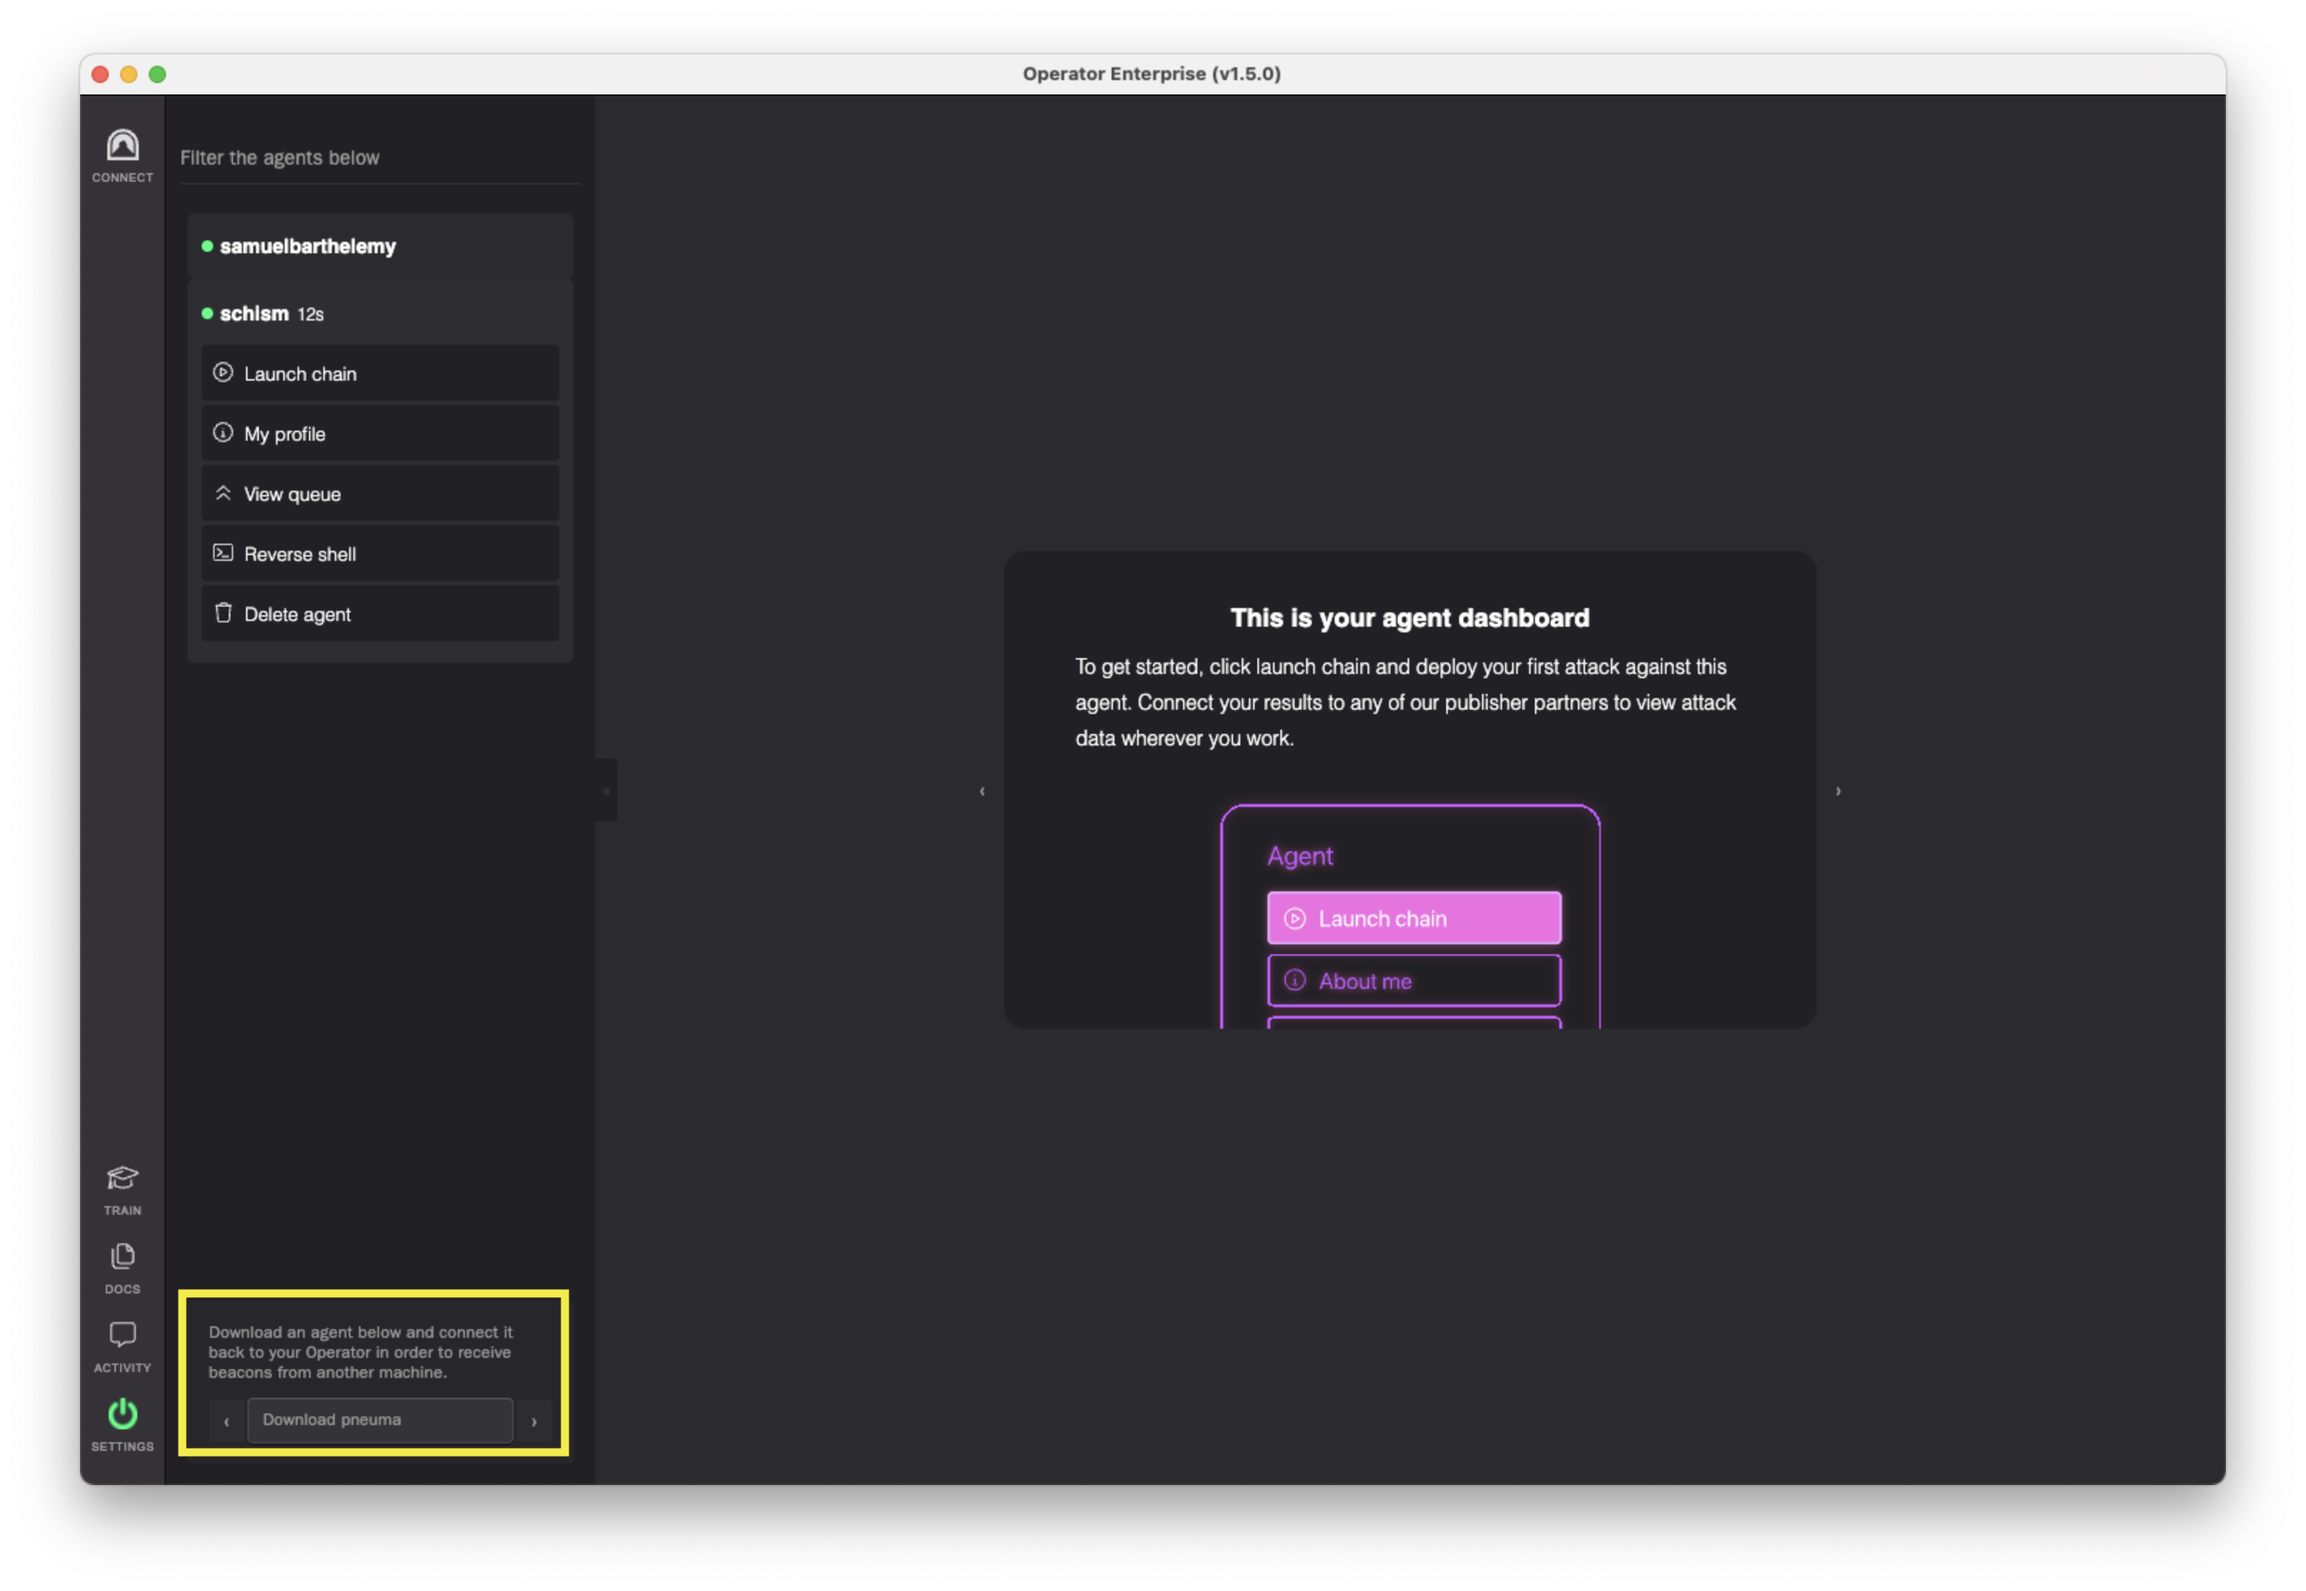
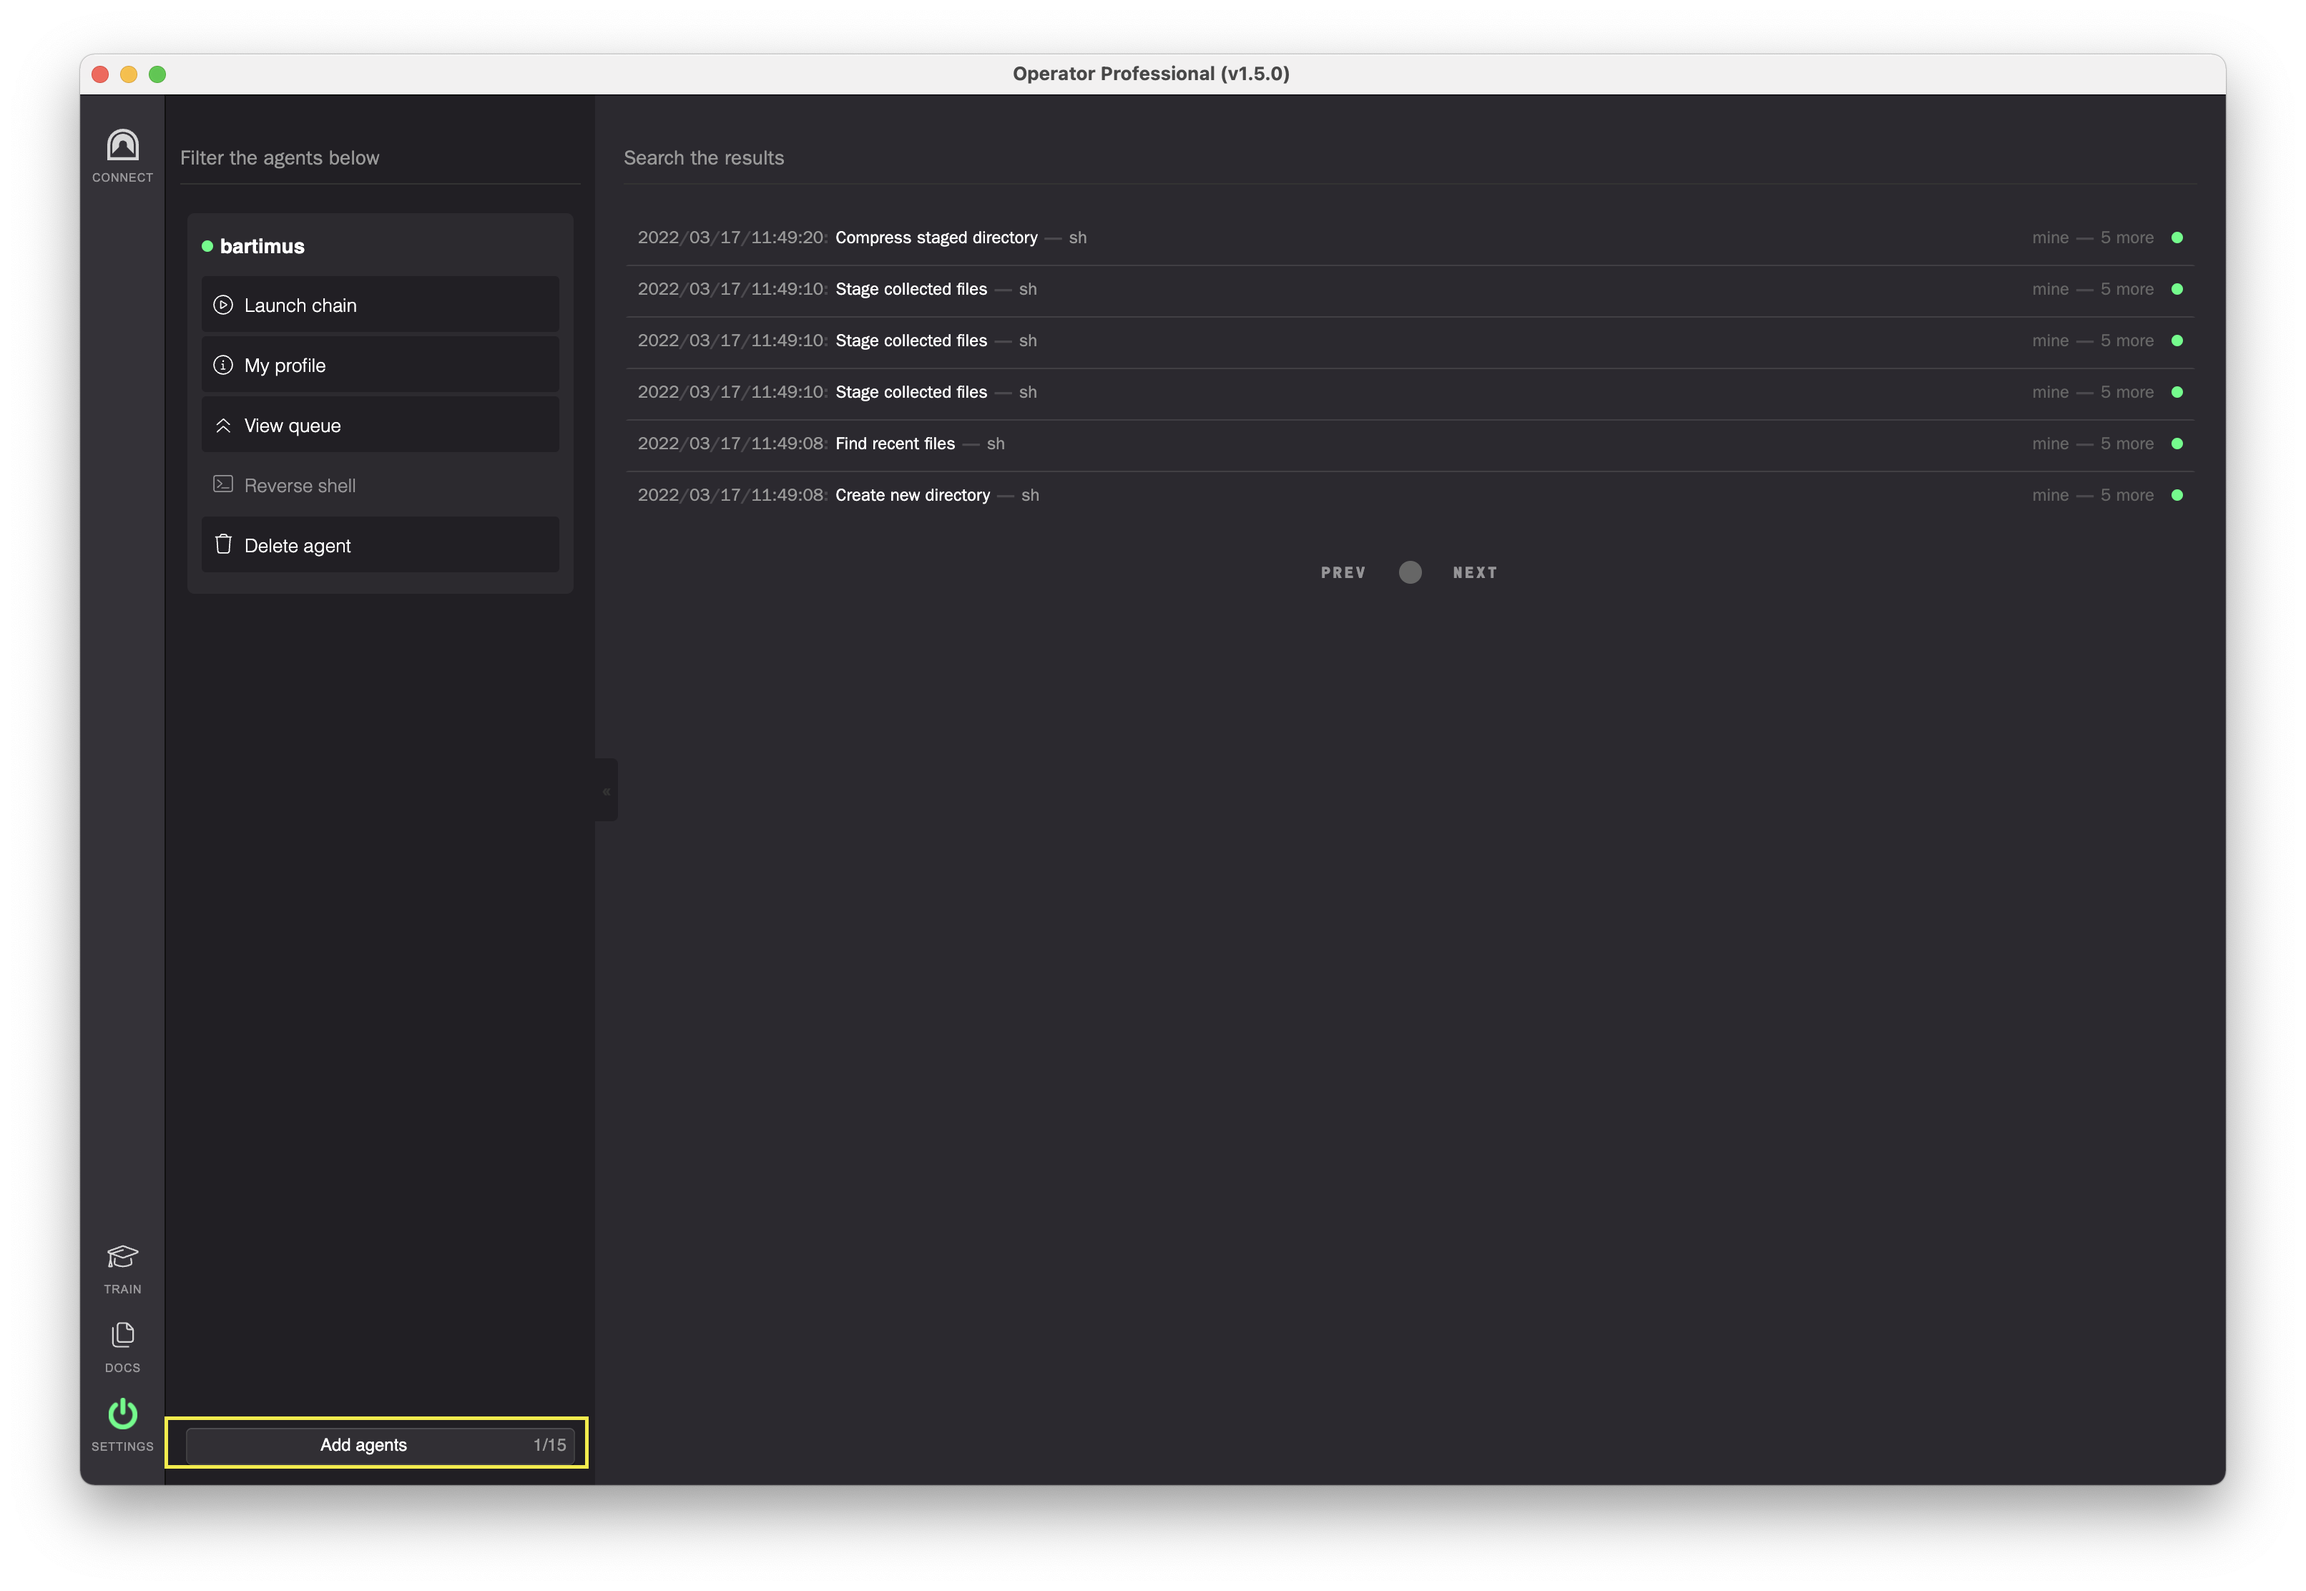
updated for issues listed

diff --git a/README.md b/README.md
@@ -5,7 +5,7 @@
 
 ### This repository is the spot to report bugs or submit feature requests.
 
-Operator is an autonomous red team C2 platform, built by [Prelude](https://prelude.org). It is designed for red, purple and blue teamers to conduct realistic threat assessments. Using the desktop application, you can deploy agents on remote computers and launch custom adversary profiles against them to identify the holes that antivirus programs & vulnerability scanners are not designed toweb locate.
+Operator is production-ready infrastructure for continuously testing your security environment. Operator is free & open-source, and provides everything you need to perform realistic offensive security assessments against your cyber defenses.
 
 > Watch our quick [introduction video](https://www.youtube.com/watch?v=Hz8K-jdqpBY)
 
@@ -22,20 +22,22 @@ When you start Operator, your app loads in our [community](https://github.com/pr
 The Prelude development & security teams run several supporting resources for the community:
 
 - A [Discord server](https://discord.gg/NWURE99JzE) to interact with the team.
-- A [YouTube video library](https://www.youtube.com/preludeorg) containing tutorials and use-cases.
+- A [YouTube video library](https://www.youtube.com/preludeorg) containing tutorials and use cases.
 - A [blog](https://feed.prelude.org), where we post on general security and specific Operator topics.
 - Details about our [weekly and out-of-band TTP releases](https://chains.prelude.org).
 
 ## Operator Terminology
 
-- Tactics, Techniques and Procedures (TTPs) - are the individual attacks you can send to your agents in order to test the endpoint's security. 
-- Chains - are sets of TTPs which are often based on a real adversary kill chain. 
-- TTP Tuesday - is a weekly chain release, designed by Prelude's security team and often based on notable attacks or novel techniques. (**Available to Professional License Holders**)
+- Tactic, Technique and Procedure (TTP) - A TTP is a specific ATT&CK technique implementation (procedure). Each TTP defines an independent ability a chain could contain, along with classification details describing what operating systems it will work on. Prelude natively supports Windows, Linux and MacOS (darwin) platforms and a series of shell and non-shell executors (i.e., the things that run the commands).
+- Chains - A chain is an unordered collection of procedures files. Think of a chain in video game terms; it is an empty profile or shell, and it gets more powerful as you add specific abilities to it. 
+- TTP Tuesday - Every Tuesday, Prelude security engineers release a new chain in an event called TTP Tuesday. These chains typically align to threat intelligence and are loaded into Operator automatically for Professional license holders. You can view past chains on our chains [website](https://chains.prelude.org). (**Available to Professional License Holders**)
 - N-Day Chains - is an out-of-band priority chain based on real world 0-Day releases. (**Available to Professional License Holders**)
-- Agents - are binaries (or scripts) which execute the deployed TTPs or Chains found in Operator. The Prelude security team develops multiple agents which are designed to fully support Operator's full feature set. These agents are modeled after the tools used by real adversaries. The community has also created a few open-source agents that work with Operator's underlying API.
-- Task (Link) - is a beacon which the agent receives from Operator as well as the result it sends to Operator. A link contains properties like the initial request, the agent's response, the process PID, and the status (code).
-- ThirdEye is a NodeJS agent that is built into Operator itself. ThirdEye lives in your home range and is often used to test deployment of a chain or TTP. Every time you open Operator, you will have access to your ThirdEye agent (ThirdEye is named after your computer's hostname).
-- Pneuma - Prelude's default open source agent. [Source code is available here.](https://github.com/preludeorg/pneuma)
+- Agent - An agent, often referred to as a Remote Access Trojan, is a process running on a remote computer which can run commands while under the control of a bad actor. Agents beacon into Operator periodically to ask for instructions to run. Each agent is automatically grouped into a range. Agents communicate to Operator through one of several network protocols, such as TCP, UDP, or HTTP.
+- Redirector - A redirector is a Linux server running a headless version of Operator. Your local Operator instance will connect to the redirector which acts as a Proxy for interating with agents. This allows you to manage agents hosted outside your network, without having to expose your local Operator instance.
+- Fact - A fact is a key/value pair. There are three different types of facts: Automatic, Discovered, and Custom. Automatic facts are immutable, discovered facts are generated from the output of a TTP, custom facts are defined by the user. Some TTPs may require certain custom facts to be present before attempting to execute.
+- Task (Link) - A Task is a beacon which the agent receives from Operator as well as the result it sends to Operator. A link contains properties like the initial request, the agent's response, the process PID, and the status (code).
+- ThirdEye - ThirdEye is a Node.js agent that is built directly into Operator. When Operator starts, ThirdEye automatically launches and beacons into your Home range with the username of the user running the desktop application. It only communicates locally to Operator and is designed for testing TTPs out before deploying them in the wild. ThirdEye does not support reverse shells, nor can you delete this agent.
+- Pneuma - Our most popular open-source agent is called Pneuma, a Go agent which supports all major operating systems and 3 different protocols (TCP, UDP, HTTP). Pneuma is capable of executing nearly all TTPs and chains loaded into Operator, along with built-in support for reverse shells (when connected over TCP). [Source code is available here.](https://github.com/preludeorg/pneuma)
 
 ## Quick Start
 
@@ -47,25 +49,25 @@ Whether you are using Operator for the first time or you are checking out the ne
 
 1. Head to https://www.prelude.org/download/current and download a copy of Operator for your operating system.
 2. Double-click the downloaded executable to install Operator the same as any other desktop app.
-3. Open Operator. You'll be created with the main dashboard where you'll deploy chains or individual TTPs and watch the results stream in. 
+3. Open Operator. Operator will open to the starting page, where you can get started deploying a chain.
 
 ## Deploying a chain
 
-> When running an operation, keep an eye on the "View Queue" button. Clicking this will show you the procedures from your chain that are awaiting execution by the agent. If any TTPs are skipped or queued, they might be waitin for other TTPs to complete or for a specific Fact to be present.
+> When running an operation, keep an eye on the "View Queue" button. Clicking this will show you the procedures from your chain that are awaiting execution by the agent. If any TTPs are skipped or queued, they might be waiting for other TTPs to complete or for a specific fact to be present.
 
 1. Select the default ThirdEye agent. 
 2. Click "Launch Chain".
-3. Type the name of a Chain in the "Find an attack chain to deploy" (File Hunter is recommended) 
+3. Type the name of a Chain in the "Find an attack chain to deploy" (File Hunter is a great chain to get started with, as it supports multiple operating systems.) 
 4. Click "Deploy". This will send the chain to the selected agent.
 5. Within a few seconds you should see results starting to stream into your agent's result log. Click on any row to view additional information on the result.
     
 ![alt text](images/deploy.png)
 
-## Using an Agent other than ThirdEye
+## Selecting an Agent for your Operation.
 
 > Using an agent other than ThirdEye (which is baked into Operator) can allow access to additional features (Other protocol support, reverse shells, etc...).
 
-1. You can download one of Prelude's other agents by clicking the Download button in Operator
+1. You can download one of Prelude's other agents by clicking the "Add Agents" button in Operator
 
 ![Download Button](images/download.png)
 
@@ -74,7 +76,7 @@ Whether you are using Operator for the first time or you are checking out the ne
 
 > If you would like to have Operator listen for connections from other computers on the network you can follow these optional steps
 
-4. (optional) Change Operator's IP address from 127.0.0.1 (localhost) to your computer's local IP address. You can make this change by clicking Settings (bottom left), then clicking the General Tab at the top of that page, look for the IP field under the API heading. Doing so will allow other computers's on your network to reach Operator's listening posts at ports 2323 (TCP), 4545 (UDP) and 3391 (HTTP).
+4. (optional) Change Operator's IP address from 127.0.0.1 (localhost) to your computer's local IP address. You can make this change by clicking Settings (bottom left), then clicking the General Tab at the top of that page, look for the IP field under the API heading. Doing so will allow other computers on your network to reach Operator's listening posts at ports 2323 (TCP), 4545 (UDP) and 3391 (HTTP).
 
 ![Changing the IP](images/IP.png)
 
@@ -87,13 +89,12 @@ Whether you are using Operator for the first time or you are checking out the ne
 > The following step is for connecting an Agent to Operator from anywhere on the internet.
 
 8. (optional) Deploy a redirector and connect Operator to it by clicking the [Connect Button](https://www.youtube.com/watch?v=St1GvE40-9Q).
-9. (optional) Copy Pneuma to a computer that can access the Redirector from step 8, then run the following command, replacing the **IP** with the public DNS hostname from your redirector. ```./pneuma-darwin -name boogeyman -range red -address IP:2323```
+9. (optional) Copy Pneuma to a computer that can access the redirector from step 8, then run the following command, replacing the **IP** with the public DNS hostname from your redirector. ```./pneuma-darwin -name boogeyman -range red -address IP:2323```
 
 ## Where to go from here?
 
-1. Create your own TTPs or Create your own chain using some of the hundreds of TTPs already present. This is an Integrated Development Environment for building your own procedures or adversaries. 
+1. Create your own TTPs or create your own chain using some of the hundreds of TTPs already present. This is an Integrated Development Environment for building your own procedures or adversaries. 
 2. Click on the Train section to take any of the free, interactive training programs built into Operator. 
 3. Head into the Connect section to provision redirectors and test ranges to practice against. 
 4. Advanced user? Go to Settings -> Plugins section to build your own extensions to the platform.
 5. Pop into our [Discord server](https://discord.gg/NWURE99JzE) where we have an active Operator community.
-
